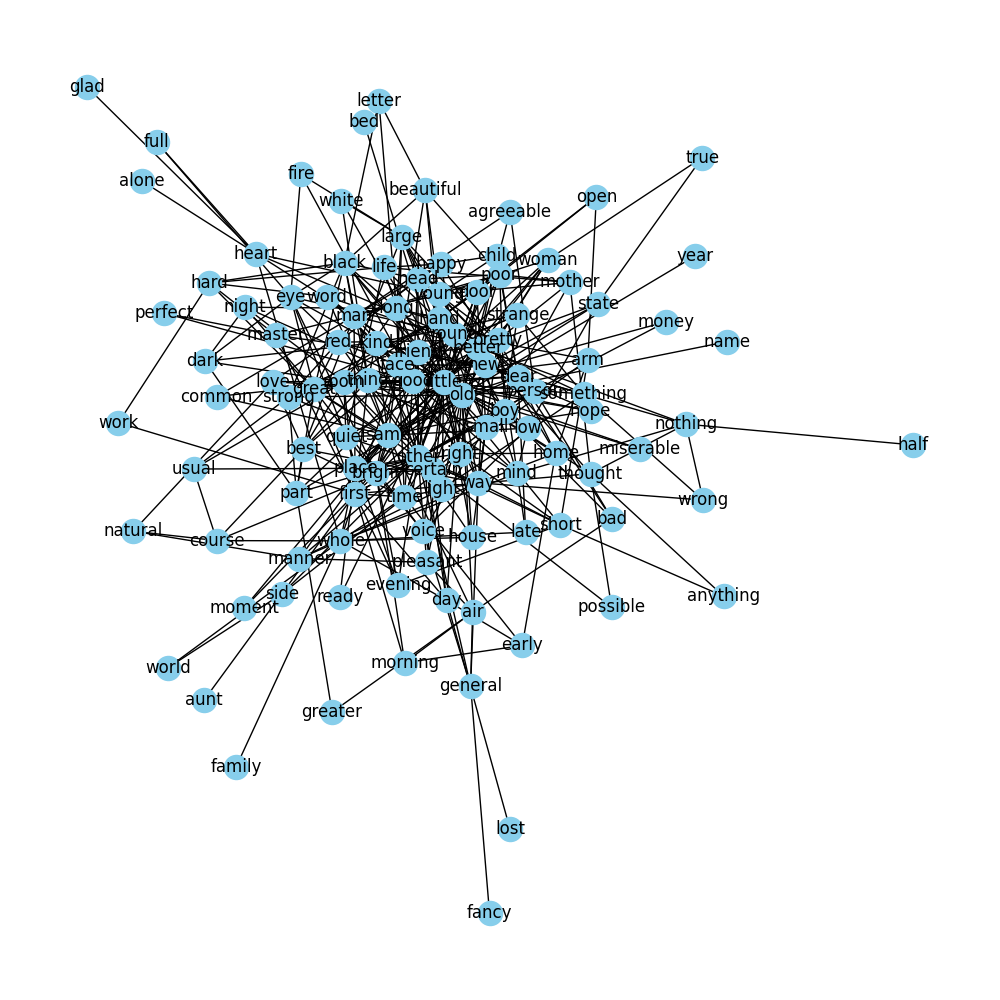
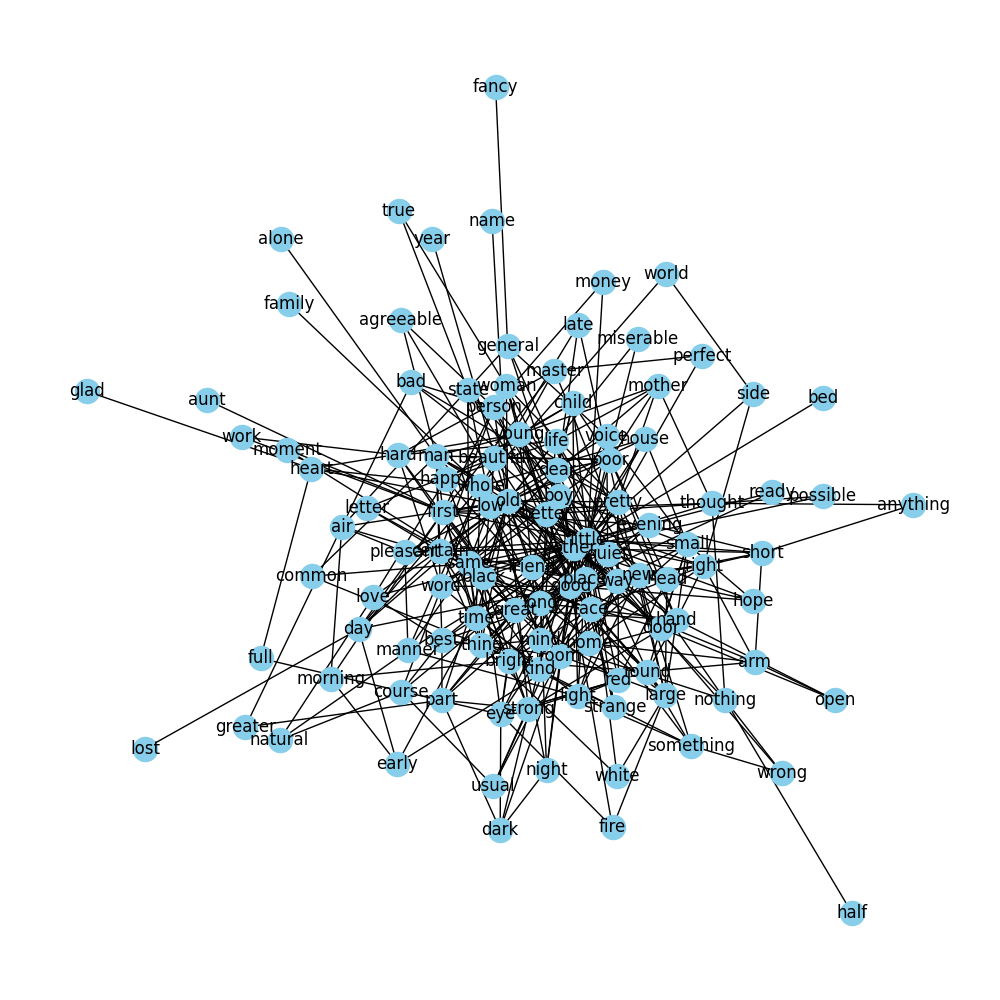
project finish

diff --git a/project/project4.py b/project/project4.py
@@ -1,3 +1,9 @@
+## TOMI AHONEN
+## JSVA2024
+## PROJECT 4
+## Y68756994
+
+
 import networkx as nx
 import matplotlib.pyplot as plt
 import numpy as np
@@ -11,13 +17,16 @@ of the nodes to maintain the readability of the network graph as clear as possib
 adjacency matrix of this graph in a separate file
 """
 
-G = nx.read_gml('C:\\Users\\OMISTAJA\\Desktop\\JSVA2024\\JSVA2024\\project\\adjnoun.gml')
+G = nx.read_gml('C:\\Users\\tomia\\OneDrive\\Työpöytä\\JSVA2024\\JSVA2024\\project\\adjnoun.gml')
 
-# Draw the graph
 plt.figure(figsize=(10, 10))
-nx.draw(G, with_labels=True, node_size=300, node_color='skyblue')
-plt.savefig("network_graph.png")
+nx.draw(G, with_labels=True, node_size=150, node_color='skyblue', font_size=7)
+plt.savefig("G.png")
 #plt.show() 
+
+#diameter of graph
+diameter = nx.diameter(G)
+print("Diameter of the graph: ", diameter)
 
 #Adjacency matrix
 adjacency_matrix = nx.to_numpy_array(G)
@@ -30,7 +39,7 @@ np.savetxt("adjacency_matrix.txt", adjacency_matrix, fmt="%d")
 if nx.is_bipartite(G):      #returns True if G is bipartite, False if not
     print("The graph is bipartite")
 else:
-    print("The graph is not bipartite")
+    print("The graph is not bipartite")     
 
 """
 3. Suggest a script that uses NetworkX functions to identify the nodes of the three highest
@@ -40,21 +49,18 @@ centrality.
 
 degree_centrality = nx.degree_centrality(G)
 
-# get the node with three highest degree centrality
 highest_degree_centrality = heapq.nlargest(3, degree_centrality, key=degree_centrality.get)
 print("The nodes with the three highest degree centrality are: ", highest_degree_centrality)
 # meaning that these three nodes have the most amount of edges out of all nodes
 
 closeness_centrality = nx.closeness_centrality(G)
 
-# get the node with three highest closeness centrality
 highest_closeness_centrality = heapq.nlargest(3, closeness_centrality, key=closeness_centrality.get)
 print("The nodes with the three highest closeness centrality are: ", highest_closeness_centrality)
 # meaning that these three nodes are close to all other nodes in the graph, which means the node can quickly interact with other nodes
 
 betweenness_centrality = nx.betweenness_centrality(G)
 
-# get the node with three highest betweenness centrality
 highest_betweenness_centrality = heapq.nlargest(3, betweenness_centrality, key=betweenness_centrality.get)
 print("The nodes with the three highest betweenness centrality are: ", highest_betweenness_centrality)
 # meaning that these three nodes have the most amount of shortest paths that pass through them
@@ -110,8 +116,9 @@ plt.ylabel('Frequency')
 plt.show()
 # meaning that the clustering coefficient distribution shows the frequency of nodes that have a certain clustering coefficient
 # Clusterin coef. of 0 means that none of a node's neighbours are connected to each other, while 1 means that all of a node's neighbours are connected to each other
-#The average clustering coefficient of this network is avg_clustering_coefficient = nx.average_clustering(G)
 
+avg_clustering_coefficient = nx.average_clustering(G)
+print("Average clustering coefficient: ", avg_clustering_coefficient)
 print("##################################################################")
 """
 5. We want to test the extent to which the centrality distributions in 4) fit a power law
@@ -120,23 +127,34 @@ distribution, or can use alternative one of your choice. It is important to quan
 goodness of fit using p-value. Typically, when p-value is greater than 10%, we can state that
 power-law is a plausible fit to the (distribution) data.
 """
+# Fit a power law distribution to the centrality distributions and calculate the p-value
+fit_degree = powerlaw.Fit(np.array(list(degree_centrality.values())) + 1, discrete=True)
+R, p = fit_degree.distribution_compare('power_law', 'exponential', normalized_ratio=True)
+print("Degree centrality distribution power law fit p-value:", p)
 
-# Fit a log-normal distribution to the degree centrality distribution
+fit_closeness = powerlaw.Fit(np.array(list(closeness_centrality.values())) + 1, discrete=True)
+R, p = fit_closeness.distribution_compare('power_law', 'exponential', normalized_ratio=True)
+print("Closeness centrality distribution power law fit p-value:", p)
+
+fit_betweenness = powerlaw.Fit(np.array(list(betweenness_centrality.values())) + 1, discrete=True)
+R, p = fit_betweenness.distribution_compare('power_law', 'exponential', normalized_ratio=True)
+print("Betweenness centrality distribution power law fit p-value:", p)
+# the p-value is now less than 10% which means that the power law distribution is not a plausible fit to the data
+
+# lets try log-normal distribution
+
 fit_degree = powerlaw.Fit(np.array(list(degree_centrality.values())) + 1, discrete=True)
 R, p = fit_degree.distribution_compare('lognormal', 'exponential', normalized_ratio=True)
 print("Degree centrality distribution log-normal fit p-value:", p)
 
-# Fit a log-normal distribution to the closeness centrality distribution
 fit_closeness = powerlaw.Fit(np.array(list(closeness_centrality.values())) + 1, discrete=True)
 R, p = fit_closeness.distribution_compare('lognormal', 'exponential', normalized_ratio=True)
 print("Closeness centrality distribution log-normal fit p-value:", p)
 
-# Fit a log-normal distribution to the betweenness centrality distribution
 fit_betweenness = powerlaw.Fit(np.array(list(betweenness_centrality.values())) + 1, discrete=True)
 R, p = fit_betweenness.distribution_compare('lognormal', 'exponential', normalized_ratio=True)
 print("Betweenness centrality distribution log-normal fit p-value:", p)
 
-#log-normal distributuin fits better here than powerlaw distribution
 print("##################################################################")
 """
 6. We want to use exponentially truncated power-law instead of power law distribution.
@@ -173,19 +191,77 @@ measures. Comment on the quality of the partition by taking into account the ava
 knowledge about the node attributes (0 and 1 values depending whether it accommodates
 noun or adjectives). 
 """
+
 from networkx.algorithms import community
+from networkx.algorithms.community import modularity
+from networkx.algorithms.community import girvan_newman
+print("girvan-newman")
 
-communities = list(community.label_propagation_communities(G))
-modularity = community.modularity(G, communities)
+communities = girvan_newman(G)
+communities = next(communities)
 
-print("Modularity of the partition: ", modularity)
-
-node_map = {node: i for i, node in enumerate(G.nodes)}
-
-colors = [0] * nx.number_of_nodes(G)
-for i, com in enumerate(communities):
-    for node in com:
-        colors[node_map[node]] = i
+colors = []
+for node in G.nodes():
+    for i, community in enumerate(communities):
+        if node in community:
+            colors.append(i)
+            break
 
 nx.draw(G, node_color=colors, with_labels=True)
 plt.show()
+
+mod = modularity(G, communities)
+print(f"Modularity (Girvan-Newman): {mod}")
+print(len(communities))
+
+import matplotlib.cm as cm
+import community as community_louvain
+
+print("Louvain")
+partition = community_louvain.best_partition(G)
+
+plt.figure(figsize=(10, 10))  
+cmap = cm.get_cmap('viridis', max(partition.values()) + 1)
+
+nx.draw(G, with_labels=True, node_size=150,
+        node_color=[partition.get(node) for node in G.nodes()],
+        font_size=7, cmap=cmap, edge_color='k')
+
+plt.show()
+
+modularity = community_louvain.modularity(partition, G)
+print(f"Modularity (Louvain): {modularity}")
+"""
+8. We want to analyze the network in terms of type of cascades available in the network.
+Write a script that identifies the number of starts and number of chains (see definition in
+Handout 5) attached to liberal and conservative nodes. 
+"""
+
+# ?
+
+"""
+9. We want to quantify the density of adjective and noun node topology. For this purpose,
+write a script that calculates, for each node X, the proportion P(X) of neighbors that have
+the same affiliation as X. Compute the average score of P(X) for all noun nodes and average
+score for all adjective nodes. Comment on the relationship among noun and adjective nodes. 
+"""
+
+def calculate_proportion(G, node):
+    neighbors = list(G.neighbors(node))
+    if not neighbors:
+        return 0
+    same_type_count = sum(1 for neighbor in neighbors if G.nodes[neighbor]['value'] == G.nodes[node]['value'])
+    return same_type_count / len(neighbors)
+
+proportions = {node: calculate_proportion(G, node) for node in G.nodes}
+
+noun_proportions = [p for node, p in proportions.items() if G.nodes[node]['value'] == 1]
+adjective_proportions = [p for node, p in proportions.items() if G.nodes[node]['value'] == 0]
+
+average_noun_proportion = sum(noun_proportions) / len(noun_proportions) if noun_proportions else 0
+average_adjective_proportion = sum(adjective_proportions) / len(adjective_proportions) if adjective_proportions else 0
+
+print(f"Average Proportion for Noun Nodes: {average_noun_proportion}")
+print(f"Average Proportion for Adjective Nodes: {average_adjective_proportion}")
+
+

diff --git a/project/countmatrix.py b/project/countmatrix.py
@@ -1,0 +1,13 @@
+with open('C:\\Users\\tomia\\OneDrive\\Työpöytä\\JSVA2024\\JSVA2024\\project') as f:
+    data = f.read().splitlines()
+    data = [list(map(int, x.split())) for x in data]
+
+def count_matrix(data):
+    count = 0
+    for i in range(len(data)):
+        for j in range(len(data[i])):
+            if data[i][j] == 1:
+                count += 1
+    return count
+
+print(count_matrix(data))
